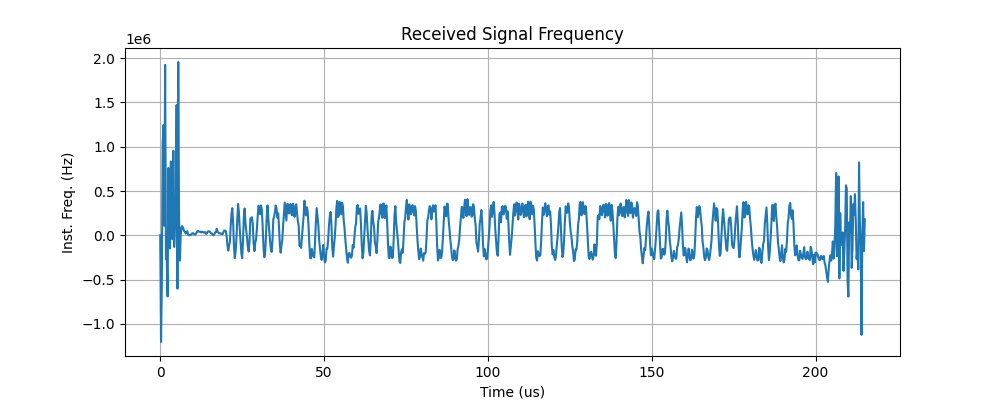
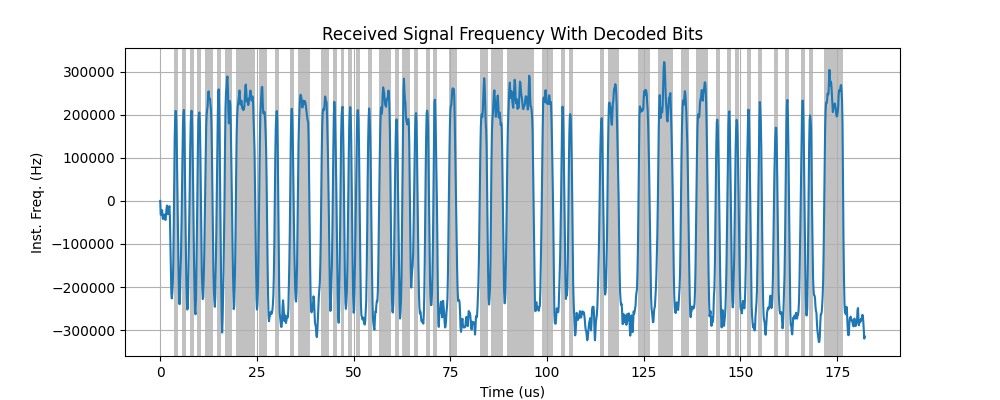
It works, run main_pipeline.py

diff --git a/digital_decode.py b/digital_decode.py
@@ -3,6 +3,7 @@
 import load_and_plot
 from constants import *
 import extract_bits
+import misc_analysis
 
 ADVERT_PREAMBLE = 0b10101010
 ADVERT_ACCESS_ADDRESS = 0x8E89BED6
@@ -15,10 +16,20 @@ def bits_to_int(bits):
 			sum += 1 << bit_i
 	return sum
 
+# https://www.allaboutcircuits.com/technical-articles/whitening-filters-help-low-power-radios-tackle-issues-caused-by-long-identical-bit-sequences/
+def whitening_shift_reg(n) -> int:
+	return 0# TODO
+
 # https://www.rfwireless-world.com/terminology/ble-advertising-data-packet-formats
 # https://academy.nordicsemi.com/courses/bluetooth-low-energy-fundamentals/lessons/lesson-2-bluetooth-le-advertising/topic/advertisement-packet/
 # This is only expecting advertising packets and won't work on anything else
+# Returns: (Progress code, possible other info, ...)
+#   Progress code:
+#     0 - Did not find preamble
+#     1 - Found preamble + access address
+#     2+- Not implemented
 def decode_ble_packet(bits):
+	progress_code = 0
 	# Step forward until next 5 bytes are equal to the preamble + access address
 	parse_i = 0
 	success = False
@@ -29,19 +40,34 @@ def decode_ble_packet(bits):
 		parse_i += 1
 	parse_i += 40# Set to end of access address
 	if not success:
-		return None
-	print("Found match for preamble + access address")
+		return (progress_code, None)
+	progress_code = 1
+	#print("Found match for preamble + access address")
 	# Next is the BLE Advertising channel PDU (protocal data unit)
 	# Header: 16 bits, Payload: Length in bytes is specified in header
-	pdu_type = bits_to_int(bits[parse_i:parse_i+4])
-	payload_len = bits_to_int(bits[parse_i+8:parse_i+16])
+	pdu_header_end_i = parse_i+16
+	if pdu_header_end_i > len(bits):
+		return (progress_code, None)
+	pdu_header = bits[parse_i:pdu_header_end_i]
+	pdu_type = bits_to_int(pdu_header[0:4])
+	payload_len = bits_to_int(pdu_header[8:16])
+	#print(f"Payload len: {payload_len}")
+	parse_i += 16
+	# Payload
+	payload_end_i = parse_i+(payload_len*8)
+	if payload_end_i + 24 > len(bits):
+		return (progress_code, None)
+	payload = bits[parse_i:payload_end_i]
+	# Checksum
 	# TODO
+	# Done
+	return (progress_code, None)# TODO
 
 def main():
 	data = load_and_plot.load_iq(FILE_NAME)
-	freq = load_and_plot.instantaneous_frequency(data, SAMPLE_RATE)
+	freq = misc_analysis.instantaneous_frequency(data, SAMPLE_RATE)
 	(bits, bin_offset, samples_per_symbol) = extract_bits.extract_binary(freq, SAMPLE_RATE)
-	decode_ble_packet(bits)
+	print(f"Packet decode result: {str(decode_ble_packet(bits))}")
 
 if __name__ == "__main__":
 	main()

diff --git a/main_pipeline.py b/main_pipeline.py
@@ -1,0 +1,44 @@
+# Tests how far the frequency can be offset while still having the same bit reading as the original
+# This program does not include actually recieving data,
+# it assumes there is a pre-recorded signal stored with the name given by constants.FILE_NAME
+
+from math import *
+from constants import *
+import extract_bits
+import load_and_plot
+import misc_analysis
+import digital_decode
+
+def main():
+	# Load test data
+	original_iq_data = load_and_plot.load_iq(FILE_NAME)
+	original_freq = misc_analysis.instantaneous_frequency(original_iq_data, SAMPLE_RATE)
+	original_bits = extract_bits.extract_binary(original_freq, SAMPLE_RATE)[0]
+	# Test limits by finding offset limit in both directions
+	limits = []# Lower bound, upper bound, in terms of local oscillator offset
+	for sign in [-1, 1]:
+		# Binary search for when it cannot be decoded anymore
+		inner_bound = 0
+		outer_bound = 4e6 * sign
+		while True:
+			halfway = (outer_bound + inner_bound) / 2
+			# Detune
+			detuned_iq = misc_analysis.apply_freq_offset(original_iq_data, SAMPLE_RATE, halfway)
+			# Correct for offset
+			retuned_iq = misc_analysis.correct_freq_offset(detuned_iq, SAMPLE_RATE)
+			retuned_freq = misc_analysis.instantaneous_frequency(retuned_iq, SAMPLE_RATE)
+			# Extract bits
+			(retuned_bits, bin_offset, samples_per_symbol) = extract_bits.extract_binary(retuned_freq, SAMPLE_RATE)
+			if digital_decode.decode_ble_packet(retuned_bits)[0] > 0:#retuned_bits == original_bits:
+				# Highest offset that decodes correctly
+				if abs(outer_bound - inner_bound) < 10000:# 10 KHz precision
+					limits.append(halfway)
+					extract_bits.plot_freq_with_bits(retuned_freq, retuned_bits, bin_offset, samples_per_symbol, title=f"Frequency With Decoded Bits, LO Offset limit = {halfway}Hz")
+					break
+				inner_bound = halfway
+			else:
+				outer_bound = halfway
+	print(f"Lowest LO offset: {limits[0]}, Upper: {limits[1]}")
+
+if __name__ == "__main__":
+    main()

diff --git a/extract_bits.py b/extract_bits.py
@@ -5,6 +5,7 @@ from math import *
 import load_and_plot
 import numpy as np
 import matplotlib.pyplot as plt
+import misc_analysis
 
 # Detects 1 or 0 based on if frequency is >0 or <0
 # Returns: (Avg abs avg per bin, List(bool for each bit))
@@ -51,13 +52,13 @@ def extract_binary(inst_freq, sample_rate):
 	bits = data_and_score_with_bin_offset(inst_freq, optimal_bin_offset, samples_per_symbol, n_bins)[1]
 	return (bits, optimal_bin_offset, samples_per_symbol)
 
-def plot_freq_with_bits(inst_freq, bits, bin_offset, samples_per_symbol):
+def plot_freq_with_bits(inst_freq, bits, bin_offset, samples_per_symbol, title="Received Signal Frequency With Decoded Bits"):
 	time_array = np.arange(len(inst_freq)) * 1e6 / SAMPLE_RATE
 	plt.figure(figsize=(10, 4))
 	plt.plot(time_array, inst_freq)
 	plt.xlabel("Time (us)")
 	plt.ylabel("Inst. Freq. (Hz)")
-	plt.title("Received Signal Frequency With Decoded Bits")
+	plt.title(title)
 	# Background colors for bits, https://stackoverflow.com/questions/9957637
 	bit_time = 1# Scale is in us
 	for (bin_i, bit) in enumerate(bits):
@@ -69,7 +70,7 @@ def plot_freq_with_bits(inst_freq, bits, bin_offset, samples_per_symbol):
 
 def main():
 	data = load_and_plot.load_iq(FILE_NAME)
-	freq = load_and_plot.instantaneous_frequency(data, SAMPLE_RATE)
+	freq = misc_analysis.instantaneous_frequency(data, SAMPLE_RATE)
 	(bits, bin_offset, samples_per_symbol) = extract_binary(freq, SAMPLE_RATE)
 	plot_freq_with_bits(freq, bits, bin_offset, samples_per_symbol)
 

diff --git a/misc_analysis.py b/misc_analysis.py
@@ -1,0 +1,44 @@
+from constants import *
+import numpy as np
+from math import *
+
+# Uses phase difference between each sample
+def instantaneous_frequency(data, sample_rate):
+	output = [0]
+	for i in range(1,len(data)):
+		iq0 = data[i-1]
+		iq1 = data[i]
+		phase0=atan2(iq0.imag, iq0.real)
+		phase1=atan2(iq1.imag, iq1.real)
+		phase_diff = phase1 - phase0
+		# Check if it crossed the -180 degree boundary
+		if abs(phase_diff) > pi:
+			if phase_diff > 0:
+				phase_diff -= 2*pi
+			else:
+				phase_diff += 2*pi
+		freq = (phase_diff / (2*pi)) * sample_rate
+		output.append(freq)
+	return output
+
+# Applyes frequency shift, note that positive `offset` will result in the IQ data being frequency shifted negative
+# Given: Complex IQ pairs
+# Returns: Complex IQ pairs
+def apply_freq_offset(original_data, sample_rate, offset_freq):
+	out = []
+	for (i, original_iq) in enumerate(original_data):
+		mag = abs(original_iq)
+		if mag == 0:
+			out.append(0)
+		else:
+			angle = atan2(original_iq.imag, original_iq.real)
+			angle -= offset_freq * 2 * pi * i / sample_rate
+			out.append(mag * (cos(angle) + 1j*sin(angle)))
+	return out
+
+# Given: Complex IQ pairs
+# Returns: Complex IQ pairs
+def correct_freq_offset(original_data, sample_rate):
+	freq = instantaneous_frequency(original_data, sample_rate)
+	offset = sum(freq) / len(freq)
+	return apply_freq_offset(original_data, sample_rate, offset)

diff --git a/load_and_plot.py b/load_and_plot.py
@@ -4,6 +4,7 @@ from constants import *
 import matplotlib.pyplot as plt
 import numpy as np
 from math import atan2, pi
+import misc_analysis
 
 def load_iq(file_name):
 	data = []
@@ -24,39 +25,20 @@ def plot_mag_db(data):
 	plt.grid()
 	plt.show()
 
-# Uses phase difference between each sample
-def instantaneous_frequency(data, sample_rate):
-	output = [0]
-	for i in range(1,len(data)):
-		iq0 = data[i-1]
-		iq1 = data[i]
-		phase0=atan2(iq0.imag, iq0.real)
-		phase1=atan2(iq1.imag, iq1.real)
-		phase_diff = phase1 - phase0
-		# Check if it crossed the -180 degree boundary
-		if abs(phase_diff) > pi:
-			if phase_diff > 0:
-				phase_diff -= 2*pi
-			else:
-				phase_diff += 2*pi
-		freq = (phase_diff / (2*pi)) * sample_rate
-		output.append(freq)
-	return output
-
-def plot_freq(data):
+def plot_freq(data, title="Received Signal Frequency"):
 	time_array = np.arange(len(data)) * 1e6 / SAMPLE_RATE
 	plt.figure(figsize=(10, 4))
 	plt.plot(time_array, data)
 	plt.xlabel("Time (us)")
 	plt.ylabel("Inst. Freq. (Hz)")
-	plt.title("Received Signal Frequency")
+	plt.title(title)
 	plt.grid()
 	plt.show()
 
 def main():
 	data = load_iq(FILE_NAME)
 	plot_mag_db(data)
-	freq = instantaneous_frequency(data, SAMPLE_RATE)
+	freq = misc_analysis.instantaneous_frequency(data, SAMPLE_RATE)
 	plot_freq(freq)
 
 if __name__ == "__main__":
